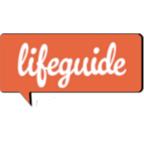
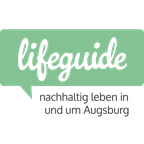
style changes for mobile

diff --git a/service-worker.js b/service-worker.js
@@ -14,13 +14,12 @@ var contentToCache = [
   './eventformular.html',
   '/public/js/register-worker.js',
   '/public/js/app.js',
-  '/public/js/db.js',
   '/public/js/map.js',
   '/public/css/compress/style.min.css',
   '/node_modules/mapbox-gl/dist/mapbox-gl.css',
   '/node_modules/mapbox-gl-geocoder/dist/mapbox-gl-geocoder.css',
   '/public/assets/favicon.ico',
-  '/public/assets/images/lifeguideLogo.png',
+  '/public/assets/images/LifeguideLogogruen.svg',
   '/accessTokenMapBox.txt',
   '/mux-lifeguide.manifest',
   '/node_modules/pouchdb/dist/pouchdb.find.js',

diff --git a/public/js/map.js b/public/js/map.js
@@ -131,11 +131,15 @@ fetch('accessTokenMapBox.txt')
     }
 
     map.on('touchstart', showMarkerOnHold);
+    map.on('mousedown', showMarkerOnHold);
     map.on('touchmove', clearMouseHold);
     map.on('touchend', clearMouseHold);    
-    map.on('mousedown', showMarkerOnHold);
     map.on('mouseup', clearMouseHold);
     map.on('touchmove', clearMouseHold);
+    map.on('pitch', clearMouseHold);
+    map.on('rotate', clearMouseHold);
+
+
 
     /* 
      * Search functionality 

diff --git a/public/js/app.js b/public/js/app.js
@@ -124,7 +124,8 @@ function setFunctionForLinkedEventMenuContent() {
   document.getElementById('entity-event-share').addEventListener('click', () => {
     const eventID = document.getElementById('event-menu-content').dataset.eventid;
     const url = `${window.location.origin}/article.html?id=${eventID}`;
-    const title = document.title;
+    const title = "Lifeguide-Augsburg";
+    
     if (navigator.share) {
       navigator.share({
         title: title,

diff --git a/index.html b/index.html
@@ -17,7 +17,7 @@
 </head>
 <body id="index">
 	<div class="default-wrapper">
-		<img class="index-lifeguideLogo" src="/public/assets/images/lifeguideLogo.png" alt="LifeguideLogo">
+		<img class="index-lifeguideLogo" src="/public/assets/images/LifeguideLogogruen.svg" alt="LifeguideLogo">
 		<div class="location-tips-container">
 			<h2 class="location-tips-heading">Guck mal Hier!</h2>
 			<a class="location-tips-showAll" href="map.html">

diff --git a/public/css/_index.scss b/public/css/_index.scss
@@ -61,6 +61,8 @@ div[class^="related"] {
 	display: block;
 	margin: 0 auto;
 	margin-top: 1em;
+	width: 50%;
+	max-width: 15em;
 }
 
 .location-tips-container, .event-tips-container, .tour-tips-container {

diff --git a/public/css/style.scss b/public/css/style.scss
@@ -73,7 +73,7 @@ h1, h2, h3, h4 {
   color: $headingTextColor;
 }
 
-a, span, p {
+span, p {
   font-size: 0.8em;
 }
 
